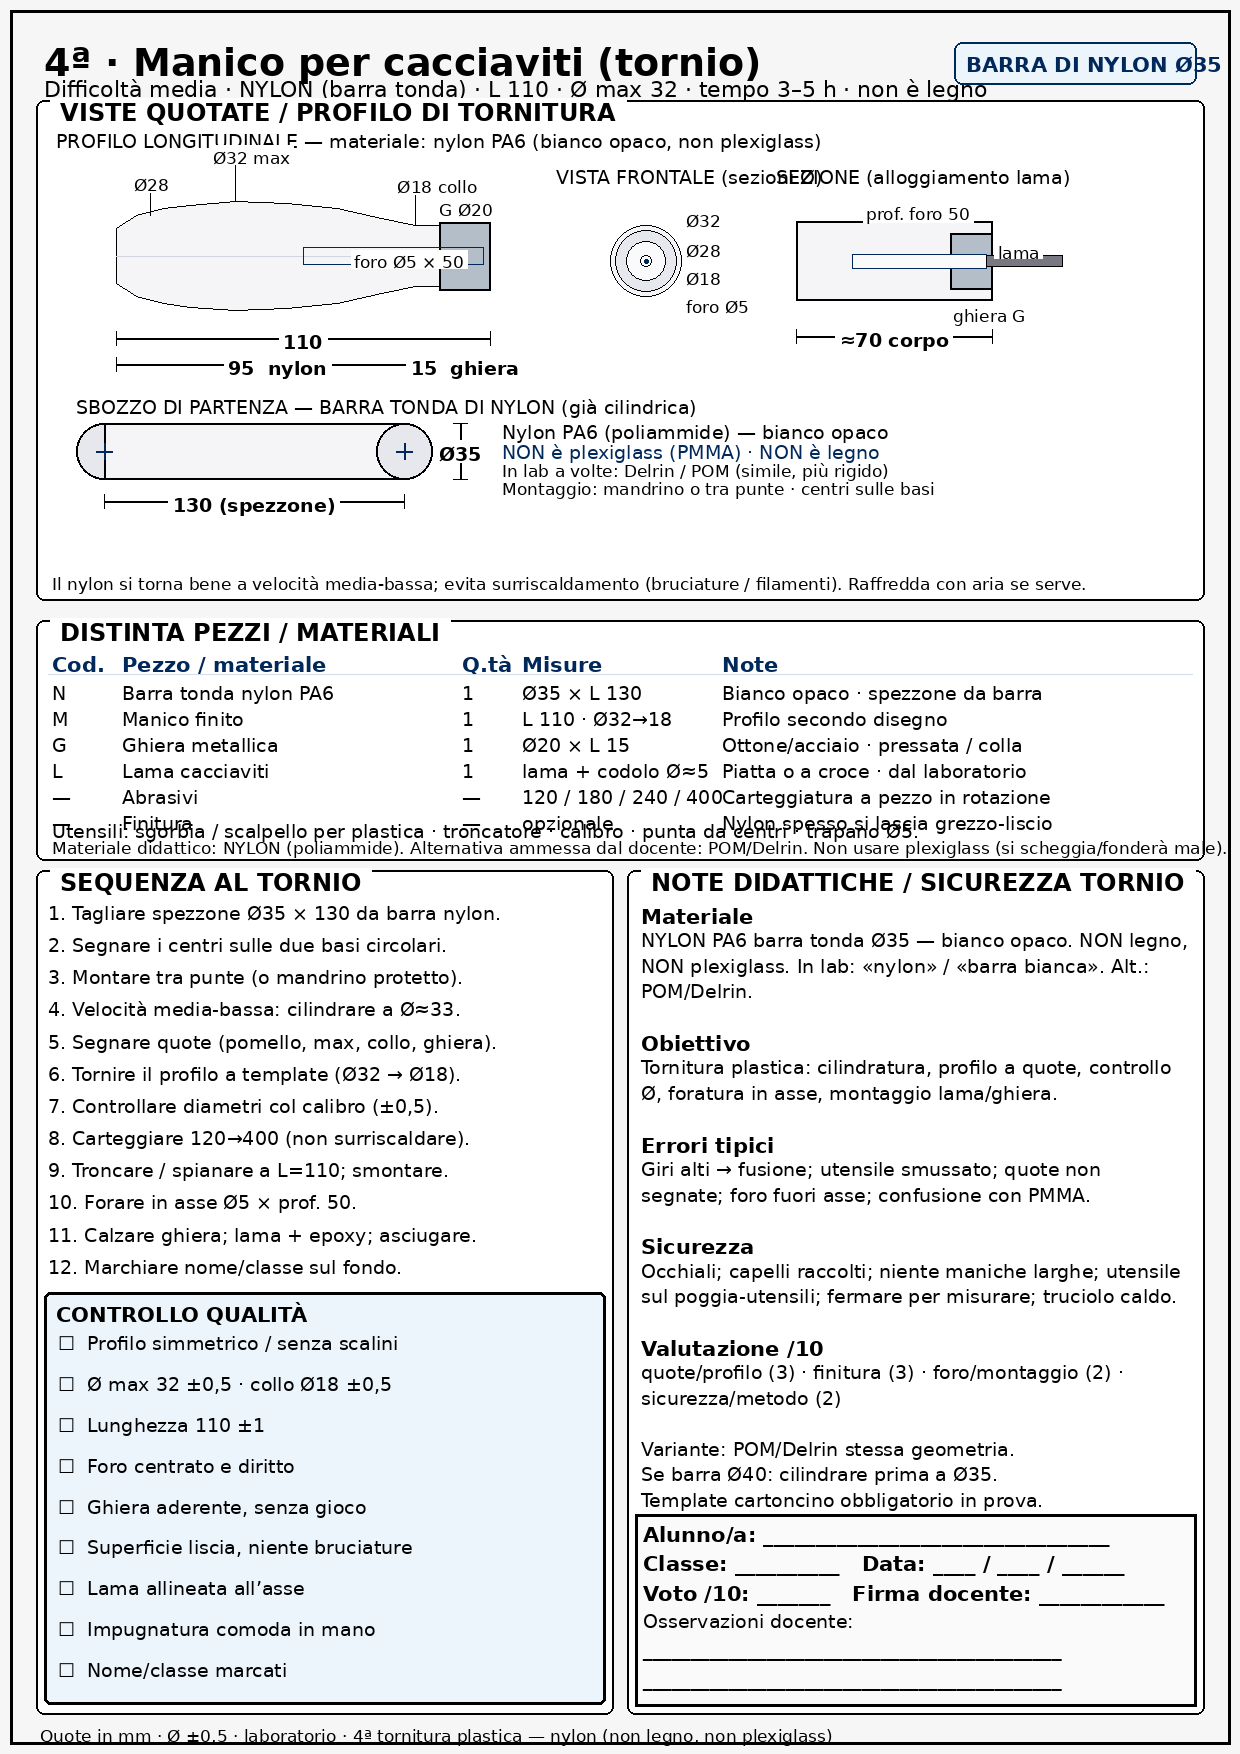
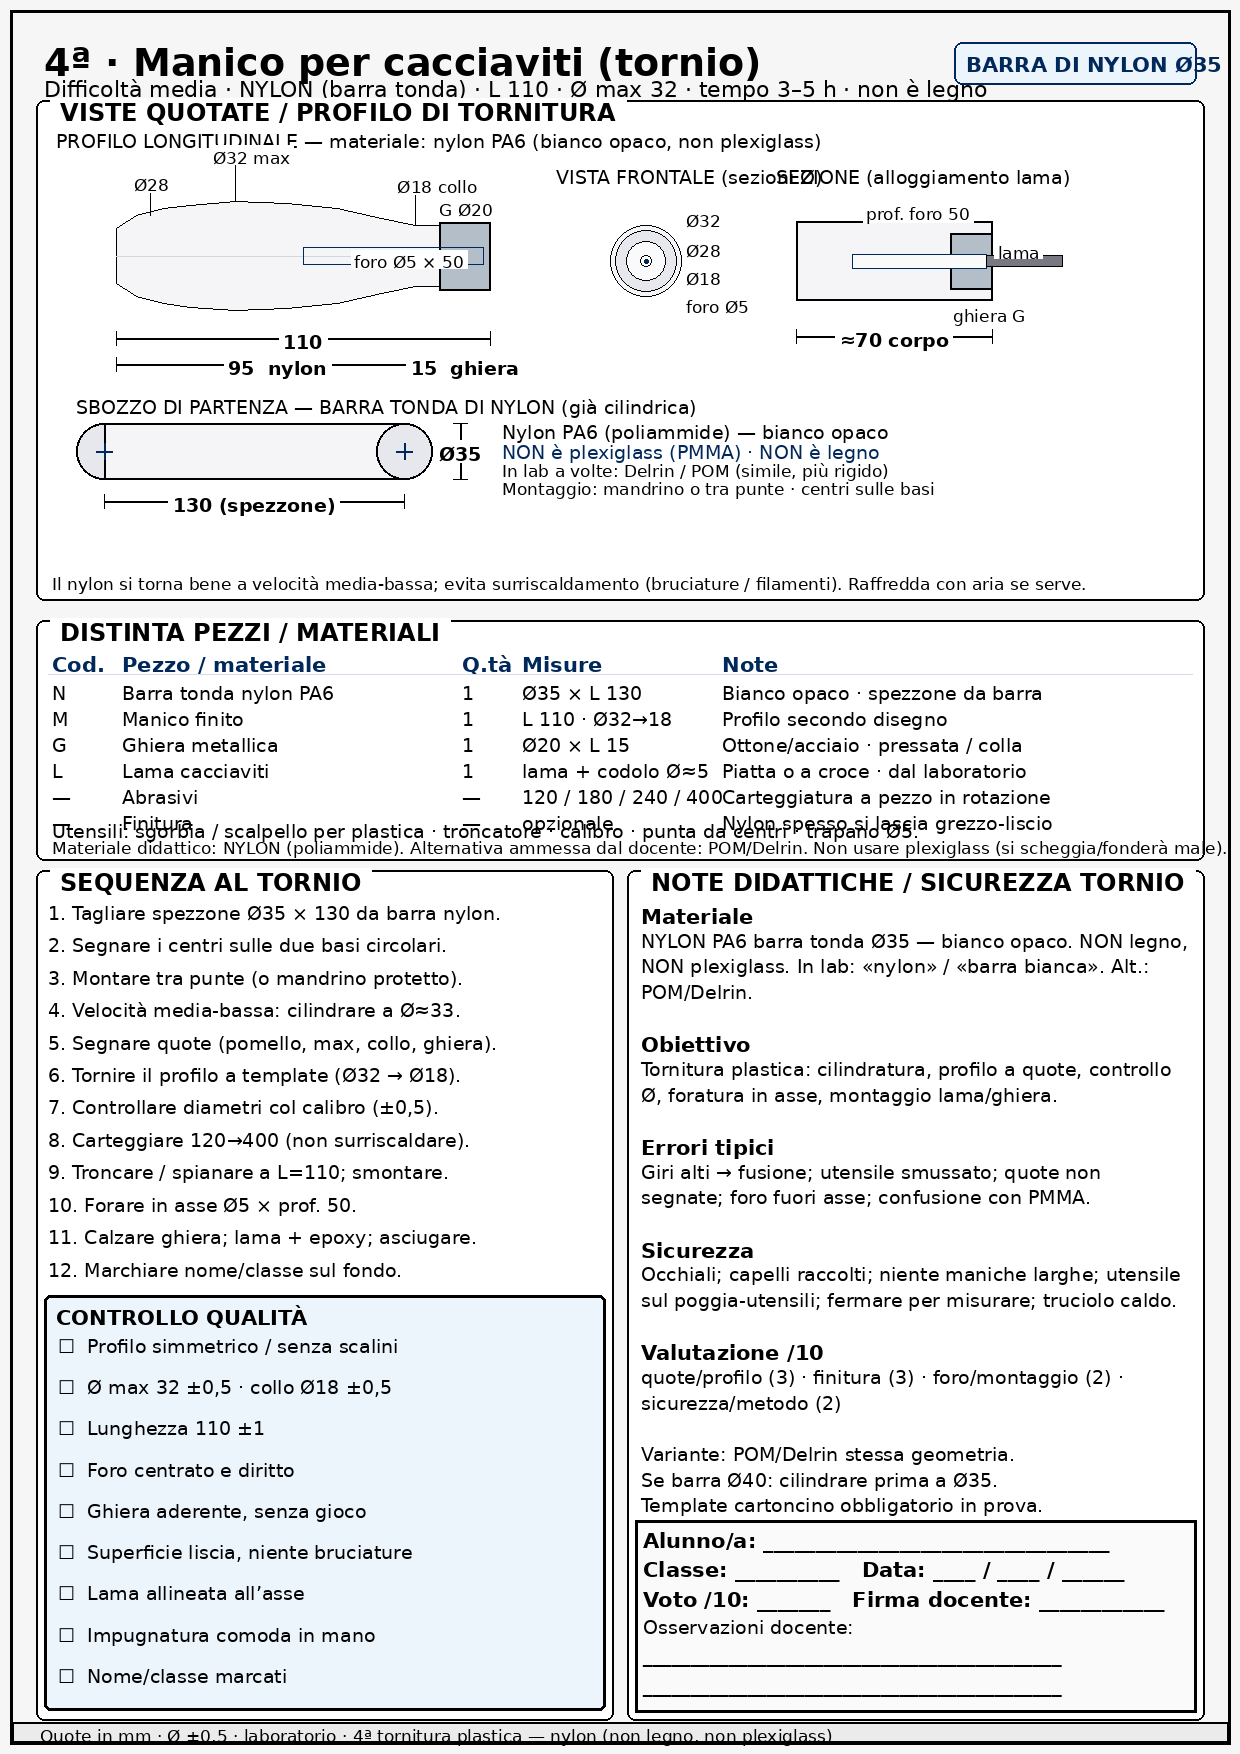
Fix Ferramenta line clash and tighten sheet footers.
Keep hardware notes clear of panel borders and close leftover bottom gaps on the lathe worksheet.

diff --git a/progetti-legno-gallery/generate_4a_manico.py b/progetti-legno-gallery/generate_4a_manico.py
@@ -269,8 +269,8 @@ def main():
 
     gap = 14
     col_w = (W - 2 * M - gap) // 2
-    lx0, ly0, lx1, ly1 = M, 870, M + col_w, H - 40
-    rx0, ry0, rx1, ry1 = lx1 + gap, 870, W - M, H - 40
+    lx0, ly0, lx1, ly1 = M, 870, M + col_w, H - 34
+    rx0, ry0, rx1, ry1 = lx1 + gap, 870, W - M, H - 34
 
     cy = panel(d, (lx0, ly0, lx1, ly1), "SEQUENZA AL TORNIO")
     steps = [
@@ -360,6 +360,7 @@ def main():
         d.text((rx0 + 16, fy), f, fill=INK, font=FB if f.startswith('Alunno') or f.startswith('Voto') or f.startswith('Classe') else FSm)
         fy += fh
 
+    d.rectangle((12, H - 32, W - 12, H - 12), fill=(235, 235, 235), outline=INK, width=2)
     d.text(
         (M + 4, H - 28),
         "Quote in mm · Ø ±0,5 · laboratorio · 4ª tornitura plastica — nylon (non legno, non plexiglass)",
